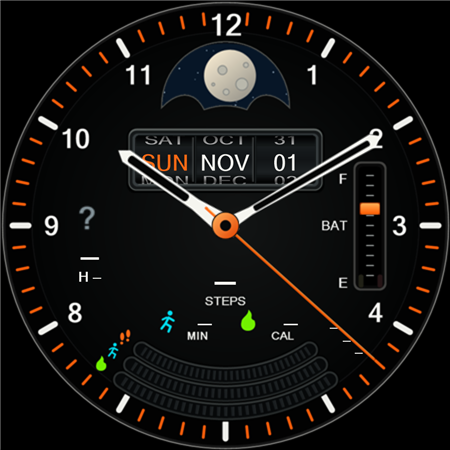
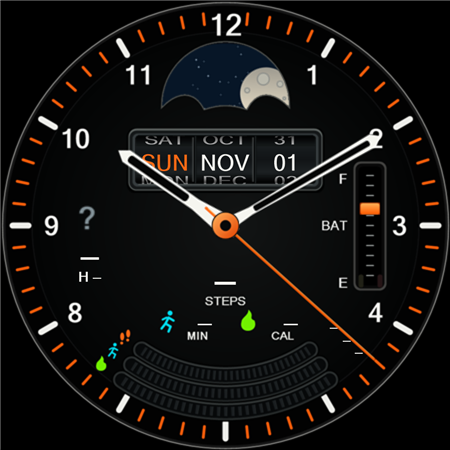
Fix Samsung steps target and calculate moon phase from date

Changed region(s): [[0.4356, 0.0933, 0.6533, 0.2489]]

diff --git a/docs/moon-phase.md b/docs/moon-phase.md
@@ -1,0 +1,68 @@
+# Date-based mechanical moon phase
+
+From 0.4.5, the face calculates the moon disc position locally from the current
+date. It does not use a network API, GPS, or Wear OS's `MOON_PHASE_POSITION`.
+The previous implementation used that coarse platform field and rotated the
+disc in the opposite direction for waxing and waning.
+
+![Mechanical aperture at four phase positions](previews/moon-phases.png)
+
+The artwork remains a traditional twin-moon wheel moving behind a fixed,
+scalloped aperture. Its visible outline is a stylized mechanical indication,
+rather than an astronomical rendering of the lunar terminator. Waxing enters
+from the left; waning exits to the right.
+
+## Calculation
+
+The reference new moon is **2000-01-06 at 18:14 UTC**, from
+[NASA's phase catalogue](https://eclipse.gsfc.nasa.gov/phase/phases1901.html).
+The mean synodic month is **29.530588853 days**, consistent with the
+[USNO Explanatory Supplement, chapter 15](https://aa.usno.navy.mil/downloads/c15_usb_online.pdf).
+
+The WFF expression uses only `YEAR`, `DAY_OF_YEAR`, and `AMPM_STATE`, with UTC
+and the Gregorian calendar explicitly set on the moon image. Gregorian leap-day
+counts convert the date to days since 2000-01-01 without a millisecond timestamp:
+
+```text
+leapsBeforeYear(y) = floor((y-1)/4) - floor((y-1)/100) + floor((y-1)/400)
+days = 365*(year-2000) + leapsBeforeYear(year) - 484 + dayOfYear - 1
+sampleDays = days + 0.5*amPm + 0.25
+lunations = (sampleDays - 5.7597222222) / 29.530588853
+linearAngle = -90 + 180 * positiveModulo(lunations, 2)
+discAngle = linearAngle + 7.5 * sin(2 * linearAngle * pi / 180)
+```
+
+Each half-day uses its midpoint, 06:00 or 18:00 UTC, limiting sampling error to
+six hours. The input values change at **00:00 and 12:00 UTC**, so normal time
+progression changes the position twice daily. They remain independent of local
+time zones, daylight saving changes, and 12/24-hour display preferences.
+The renderer may also reevaluate the expression when loading or waking the face;
+there is no app timer, alarm, continuous animation, or background polling.
+
+The disc carries two moons, so one full wheel revolution spans two lunations.
+Modulo two keeps movement continuous when switching from one painted moon to
+the next. At new moon the painted moon is hidden, and at full moon it is centered
+in the window. The direction now agrees with waxing and waning.
+
+The final small, periodic angle correction compensates for this artwork's
+scalloped aperture. With uniform rotation, about 66% of the painted moon remains
+visible at quarter phase. Moving that position from 45 to 52.5 degrees brings
+the visible area close to half. The correction preserves new/full positions,
+both painted moons, and continuous forward movement. It is an artwork
+calibration, not an additional astronomical perturbation calculation.
+
+## Accuracy and verification
+
+This is a mean-cycle approximation, not a lunar ephemeris. Actual lunations and
+the spacing between quarter phases vary. Tests compare 12 published 2026 events
+from [USNO's phase table](https://aa.usno.navy.mil/calculated/moon/phases?date=2026-01-01&format=t&nump=50);
+the largest equivalent phase-age error in those fixtures is **0.81 days**, including
+half-day sampling. This is not a bound for every date. The expected phase in early
+November 2026 is waning, following last quarter on November 1.
+
+Tests also compare 4,384 half-day samples to an independent timestamp calculation
+across years 1902, 1999, 2000, 2024, 2026, and 2100. They check leap years and
+century rules, year rollover, cycle wrap, direction, and a fixed angle throughout
+each half-day. No sub-hour time source or native moon field occurs in the moon
+expression. Previews evaluate that same production expression for their fixture
+date, rather than assuming a full moon.

diff --git a/README.md b/README.md
@@ -53,8 +53,9 @@ activity calories start unset**, and the tested Samsung Health installation did
 not expose suitable individual providers for those two values. The face does
 not include a phone companion or health-data bridge. Missing data displays `—`.
 
-The moon disc is a decorative display driven by WFF's coarse moon-phase value,
-not a precise astronomical calculation.
+The moon disc uses an offline date-based approximation of the lunar cycle,
+advancing twice a day at midnight and noon UTC. Its mechanical aperture gives
+a stylized view of the phase. See [the calculation and accuracy limits](docs/moon-phase.md).
 
 ## Build from source
 
@@ -166,18 +167,21 @@ Some editor regions overlap, so use these selection points if a tap selects
 the wrong display. Choose a provider that supplies the corresponding metric;
 the face displays the provider's data and does not calculate activity totals.
 
-Explicit goals are shown only when a provider supplies `GOAL_PROGRESS` data.
-A `RANGED_VALUE` provider can fill a track, but its range maximum is not assumed
-to be your personal goal; the goal label remains `—`. A `SHORT_TEXT` provider
+Explicit goals are shown when a provider supplies `GOAL_PROGRESS` data.
+For Samsung Health Steps, the enabled **Samsung Health steps target** editor
+option also displays the range maximum as the target: this was compared with
+the goal in Samsung Health on the tested watch. Disable this option if you
+select a different steps provider whose range limit is not your personal goal.
+Other `RANGED_VALUE` providers can fill a track, but their goal labels remain
+`—`. A `SHORT_TEXT` provider
 shows text without filling the track. System steps may differ from phone-merged
 Samsung Health totals, and automatic Samsung Health goal synchronization has
 not been verified.
 
-If the steps target remains a dash after updating the face, reselect **Samsung
-Health → Steps** in the editor and save. Existing face instances can retain an
-older range-based selection even when the default now requests `GOAL_PROGRESS`.
-If the provider still supplies only a range, the target remains unavailable.
-Active minutes and calories require separate suitable providers; choosing the
+Existing face instances can retain a range-based steps selection even when the
+default requests `GOAL_PROGRESS`; the Samsung compatibility option handles that
+case without reselection. Active minutes and calories require separate suitable
+providers; choosing the
 combined Samsung Health Daily Activity display cannot supply those two numeric
 values and goals independently.
 

diff --git a/docs/device-acceptance.md b/docs/device-acceptance.md
@@ -18,6 +18,21 @@ Version 0.4.2 shortens the seconds tick to 130 ms at strength 0.5. Installation
 and the reported package version were verified; the motion measurements below
 are from the previous 180 ms setting.
 
+Follow-up on 2026-11-02: **0.4.4 installed and rendering**, with a 6,000-step
+target visible alongside live steps. Samsung Health's Steps screen shows the
+same goal. The Samsung Steps compatibility option handles the retained ranged
+payload; native WFF step sources returned zero in a temporary test and are not
+used. Goal-change synchronization remains untested. Active minutes, calories,
+and their targets remain unavailable through the installed providers; see
+`device-providers.md` for the runtime findings.
+
+Version 0.4.5 replaces the moon-age source with a date-based approximation,
+updates its position twice per UTC day, corrects waxing/waning direction, and
+calibrates the quarter positions to the artwork's window. Awake rendering was
+checked on the watch; the exact midnight/noon transitions remain covered by
+expression tests rather than an overnight device observation. The display is
+an approximate mechanical phase indication, not a precise lunar ephemeris.
+
 The 0.2.0 awake screenshot also confirms the activity channels are concentric
 with the hand spindle, with metallic orange progress and a sharp cut edge over
 the exposed toothed track. Cyan/green filled bands are shown in the illustrative
@@ -64,8 +79,9 @@ activation does not by itself confirm the face appears in every picker view.
    available-plus-error condition. In custom mode, verify the provider's own
    fields render without parsing or claiming nonexistent weather fields.
 8. Test month-end/leap-day and time-zone/date changes. The wheel is a decorative
-   twin-moon mechanism driven by WFF's coarse 0–28 moon position, not a precise
-   astronomical calculation. Do not adjust the date of a watch collecting live
+   twin-moon mechanism uses an approximate mean lunar cycle from UTC date fields,
+   with two updates per day. Compare waxing/waning and new/full/quarter positions
+   against known phase dates; see `moon-phase.md`. Do not adjust the date of a watch collecting live
    health data solely to test rollover; use a test device or controlled preview.
 9. Check the default mechanical seconds and editor toggle, then test at 15% and below: seconds must disappear,
    with no flashing effects. Yellow lamp activates at 20%, red at 10%.

diff --git a/docs/validation.md b/docs/validation.md
@@ -51,8 +51,8 @@ strings now use `&quot;`, including grouped numeric patterns. See the official
 Regression guards cover both failures, since the JavaScript expression test
 alone accepts single quotes that the WFF runtime does not.
 
-Previews are illustrative artwork composites. The native moon position is
-coarse; the rotating disc is decorative. Decoded-resource estimates are not
+Previews are illustrative artwork composites. The moon uses a mean-cycle date
+calculation and a stylized mechanical aperture; see `moon-phase.md`. Decoded-resource estimates are not
 measurements of RAM resident on Samsung firmware or of battery consumption.
 Use `device-acceptance.md` for the remaining physical-device checks.
 
@@ -114,3 +114,23 @@ editor reselection. The other activity slots were confirmed empty, with no
 separate installed Samsung active-time/calorie provider. See the live follow-up
 in `device-providers.md`. No health permissions, background service, or extra
 complication subscriptions were added.
+
+The 0.4.4 follow-up adds the explicit Samsung Steps range-target compatibility
+option and displays the verified 6,000-step target on the physical watch. Tests
+cover positive targets, invalid/nonzero-based ranges, the disabled option, and
+the exclusion of minutes/calories from this exception. The temporary native
+step-source probe was removed; those fields returned zero on this firmware.
+Schema, SDK-native build/signature/memory, Gradle resource-only/lint, and the
+expression/geometry checks passed. Goal-change synchronization and the two
+unavailable activity metrics remain pending.
+
+Version 0.4.5 replaces the platform moon-age field with a UTC Gregorian
+date-based mean-lunation calculation. Its only time sources are year,
+day-of-year, and AM/PM, changing at midnight/noon UTC. A small periodic angle
+correction calibrates quarter positions to the scalloped window, and rotation
+now follows waxing/waning correctly. Tests cover 4,384 half-days, calendar and
+cycle rollover, fixed positions within each half-day, and 12 published USNO
+phase events (maximum fixture error 0.81 days). The corrected moon and the
+6,000-step target were inspected on the physical watch. See `moon-phase.md`
+for the formula, references, and approximation limits. No network call, timer,
+or new high-frequency source was added; decoded-resource estimates are unchanged.

diff --git a/docs/data-sources.md b/docs/data-sources.md
@@ -52,7 +52,11 @@ select a suitable installed activity provider.
   zero targets have no fill and display no target.
 * `RANGED_VALUE`: render supplied text (or its numeric value when text is empty)
   and normalize the gauge using its minimum and maximum. The goal label remains
-  `—`: a range maximum is not a verified Samsung Health goal.
+  `—`, except for the explicit Samsung Health Steps compatibility option. That
+  option displays a positive range maximum when its minimum is zero; the watch's
+  range maximum was compared with its Samsung Health Steps goal. Disable it for
+  another steps provider whose range limit is not a personal goal. Minutes and
+  calorie targets never use this exception.
 * `SHORT_TEXT`: display the provider's text. Do not parse it for numbers or infer
   a goal. The gauge remains unfilled and the goal remains `—`.
 * Empty/unavailable: `—`, unfilled track, no fabricated zero or mockup sample.
@@ -107,9 +111,11 @@ rate sampling, alarms, or wake locks. Native clock hands and provider/system
 updates drive the face. Mechanical seconds default on, with a native 130 ms
 overshoot-and-return tick once per second. They can be disabled in the editor
 and disappear at 15% battery or less. Date drums and the mechanical
-disc use date/moon sources rather than millisecond expressions. The native moon
-position is coarse (0–28); the decorative two-moon disc is not an astronomical
-ephemeris. Ambient mode displays orange hour/minute hands, the selected weekday,
+disc use date fields rather than millisecond expressions. The moon calculation
+uses UTC year, day-of-year, and AM/PM, so its time inputs change only twice daily.
+It estimates the phase from a known new moon and the mean synodic month, with no
+moon API or native moon-phase source. See [moon calculation](moon-phase.md) for
+accuracy limits. Ambient mode displays orange hour/minute hands, the selected weekday,
 month, and date, a battery slider with threshold lamps, and white hour markers
 with 12/3/6/9. The ambient scene has no seconds, weather, moon, activity tracks,
 or adjacent calendar entries. Samsung display offload was observed active.

diff --git a/docs/device-providers.md b/docs/device-providers.md
@@ -87,3 +87,15 @@ a separate consent-based phone bridge and watch complication provider; the
 resource-only face cannot read Samsung Health's private database or split a
 combined image into independent metrics. Live steps and native weather do render
 on this watch; the earlier declaration-only findings above are historical.
+
+Version 0.4.4 adds a Samsung Steps compatibility option, enabled by default,
+that displays the selected step range's positive maximum as the target when its
+minimum is zero. This uses the verified Samsung payload, without requiring an
+editor reselection; the physical watch now displays the matching 6,000 target.
+The option can be disabled for other step providers. No other metric infers
+targets from range limits. Goal-change synchronization has not been tested.
+
+A temporary on-device probe of WFF `STEP_COUNT` and `STEP_GOAL` returned 0 / 0
+while the Samsung complication supplied live steps. Those native fields were
+therefore not used as a substitute. The probe was removed before the final
+build. No health goal or persistent watch setting was changed during testing.
